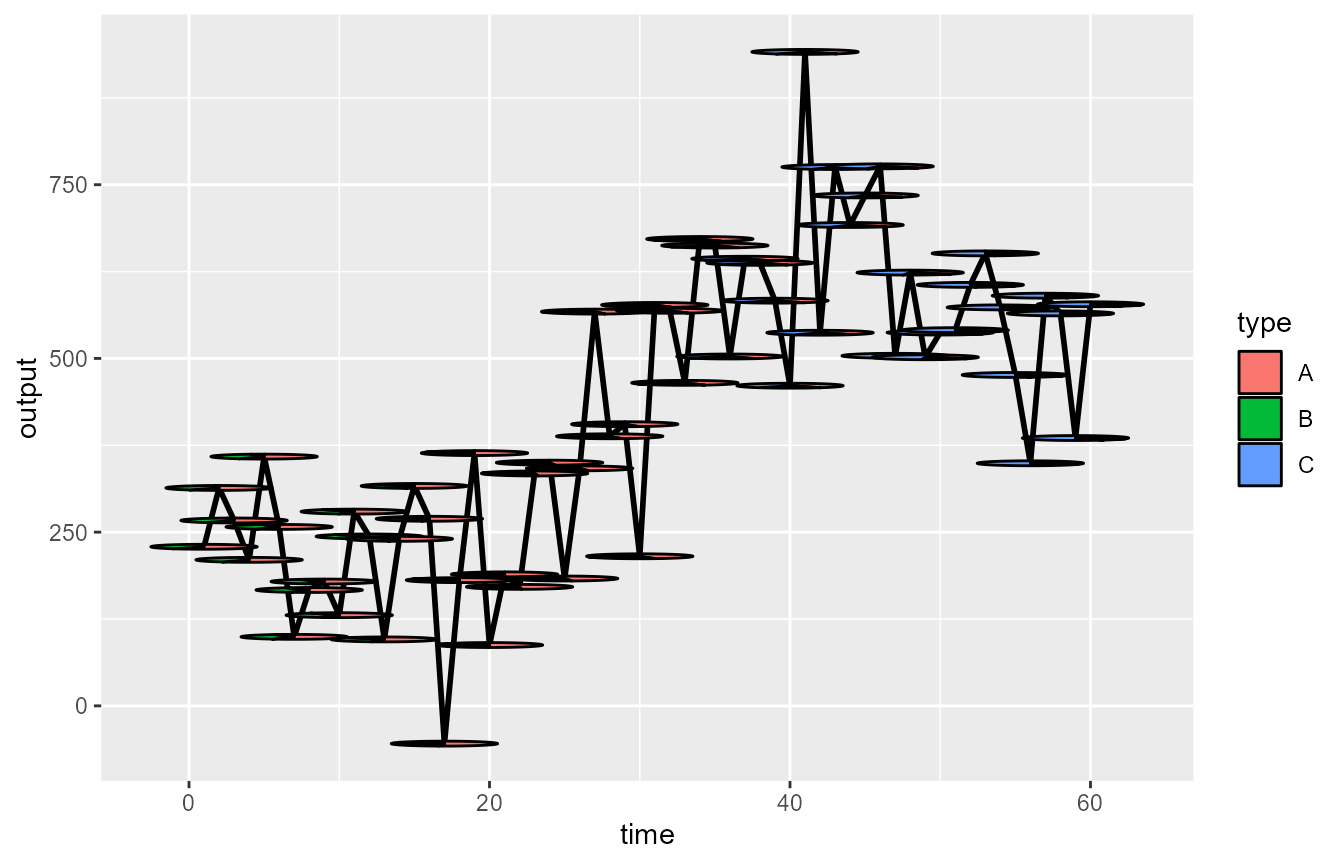
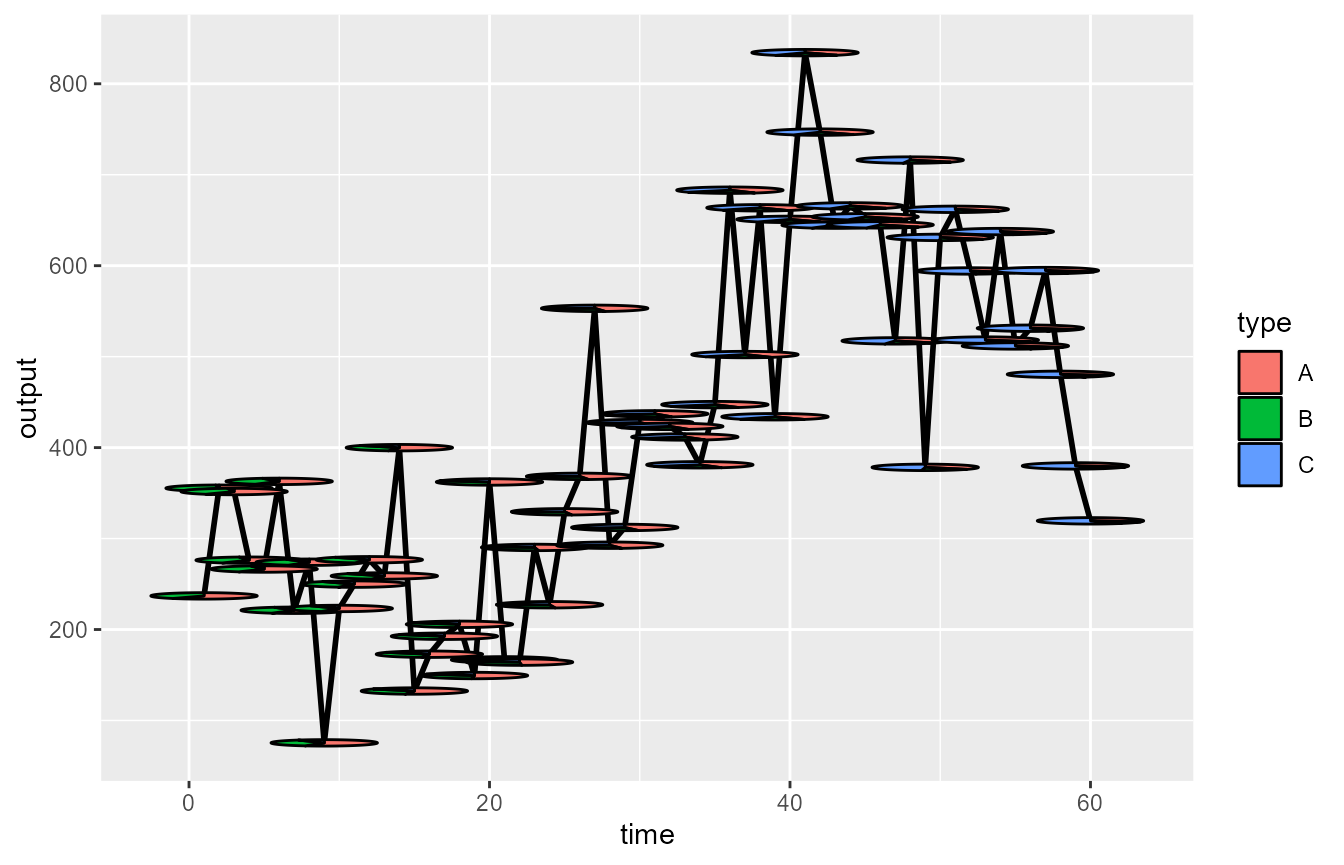
Vignettes

diff --git a/docs/index.html b/docs/index.html
@@ -117,7 +117,7 @@
 <div class="sourceCode" id="cb4"><pre class="sourceCode R"><code class="sourceCode r"><span id="cb4-1"><a href="#cb4-1" aria-hidden="true" tabindex="-1"></a><span class="fu">ggplot</span>(<span class="at">data =</span> plot_data, <span class="fu">aes</span>(<span class="at">x =</span> system, <span class="at">y =</span> response))<span class="sc">+</span></span>
 <span id="cb4-2"><a href="#cb4-2" aria-hidden="true" tabindex="-1"></a>  <span class="fu">geom_pie_glyph</span>(<span class="at">categories =</span> <span class="fu">c</span>(<span class="st">'A'</span>, <span class="st">'B'</span>, <span class="st">'C'</span>, <span class="st">'D'</span>), <span class="at">data =</span> plot_data)<span class="sc">+</span></span>
 <span id="cb4-3"><a href="#cb4-3" aria-hidden="true" tabindex="-1"></a>  <span class="fu">theme_minimal</span>()</span></code></pre></div>
-<p><img src="reference/figures/index-basic-1.png" style="display: block; margin: auto;"></p>
+<p><img src="reference/figures/README-basic-1.png" width="100%" style="display: block; margin: auto;"></p>
 </div>
 <div class="section level3">
 <h3 id="alternative-specification">Alternative specification<a class="anchor" aria-label="anchor" href="#alternative-specification"></a>
@@ -151,7 +151,7 @@ The attributes can also be stacked into one column to generate the plot. The ben
 <span id="cb6-2"><a href="#cb6-2" aria-hidden="true" tabindex="-1"></a>  <span class="co"># Along with categories column, values column is also needed now</span></span>
 <span id="cb6-3"><a href="#cb6-3" aria-hidden="true" tabindex="-1"></a>  <span class="fu">geom_pie_glyph</span>(<span class="at">categories =</span> <span class="st">'Attributes'</span>, <span class="at">values =</span> <span class="st">'values'</span>)<span class="sc">+</span></span>
 <span id="cb6-4"><a href="#cb6-4" aria-hidden="true" tabindex="-1"></a>  <span class="fu">theme_minimal</span>()</span></code></pre></div>
-<p><img src="reference/figures/index-stacked-1.png" style="display: block; margin: auto;"></p>
+<p><img src="reference/figures/README-stacked-1.png" width="100%" style="display: block; margin: auto;"></p>
 </div>
 </div>
 </div>

diff --git a/docs/articles/time-series-example.html b/docs/articles/time-series-example.html
@@ -148,12 +148,12 @@ attributes of the system over time.
 <div class="sourceCode" id="cb3"><pre class="downlit sourceCode r">
 <code class="sourceCode R"><span><span class="fu"><a href="https://rdrr.io/r/utils/head.html" class="external-link">head</a></span><span class="op">(</span><span class="va">plot_data</span><span class="op">)</span></span>
 <span><span class="co">#&gt;   time   output        A        B         C</span></span>
-<span><span class="co">#&gt; 1    1 228.9582 6.000000 4.000000 0.0000000</span></span>
-<span><span class="co">#&gt; 2    2 313.6168 5.949153 3.949153 0.1016949</span></span>
-<span><span class="co">#&gt; 3    3 266.7842 5.898305 3.898305 0.2033898</span></span>
-<span><span class="co">#&gt; 4    4 210.1327 5.847458 3.847458 0.3050847</span></span>
-<span><span class="co">#&gt; 5    5 358.7147 5.796610 3.796610 0.4067797</span></span>
-<span><span class="co">#&gt; 6    6 257.5309 5.745763 3.745763 0.5084746</span></span></code></pre></div>
+<span><span class="co">#&gt; 1    1 236.9729 6.000000 4.000000 0.0000000</span></span>
+<span><span class="co">#&gt; 2    2 355.3581 5.949153 3.949153 0.1016949</span></span>
+<span><span class="co">#&gt; 3    3 351.6876 5.898305 3.898305 0.2033898</span></span>
+<span><span class="co">#&gt; 4    4 276.2197 5.847458 3.847458 0.3050847</span></span>
+<span><span class="co">#&gt; 5    5 266.5028 5.796610 3.796610 0.4067797</span></span>
+<span><span class="co">#&gt; 6    6 362.8972 5.745763 3.745763 0.5084746</span></span></code></pre></div>
 <p>
 The attributes are assumed to be related to the system performance and
 they too change over time. It would be difficult to visualise the

diff --git a/pkgdown/index.md b/pkgdown/index.md
@@ -37,7 +37,7 @@ You can install the development version of `PieGlyph` from
       geom_pie_glyph(categories = c('A', 'B', 'C', 'D'), data = plot_data)+
       theme_minimal()
 
-<img src="man/figures/index-basic-1.png" style="display: block; margin: auto;" />
+<img src="man/figures/README-basic-1.png" width="100%" style="display: block; margin: auto;" />
 
 ### Alternative specification
 
@@ -72,4 +72,4 @@ again in the geom\_pie\_glyph function.
       geom_pie_glyph(categories = 'Attributes', values = 'values')+
       theme_minimal()
 
-<img src="man/figures/index-stacked-1.png" style="display: block; margin: auto;" />
+<img src="man/figures/README-stacked-1.png" width="100%" style="display: block; margin: auto;" />
